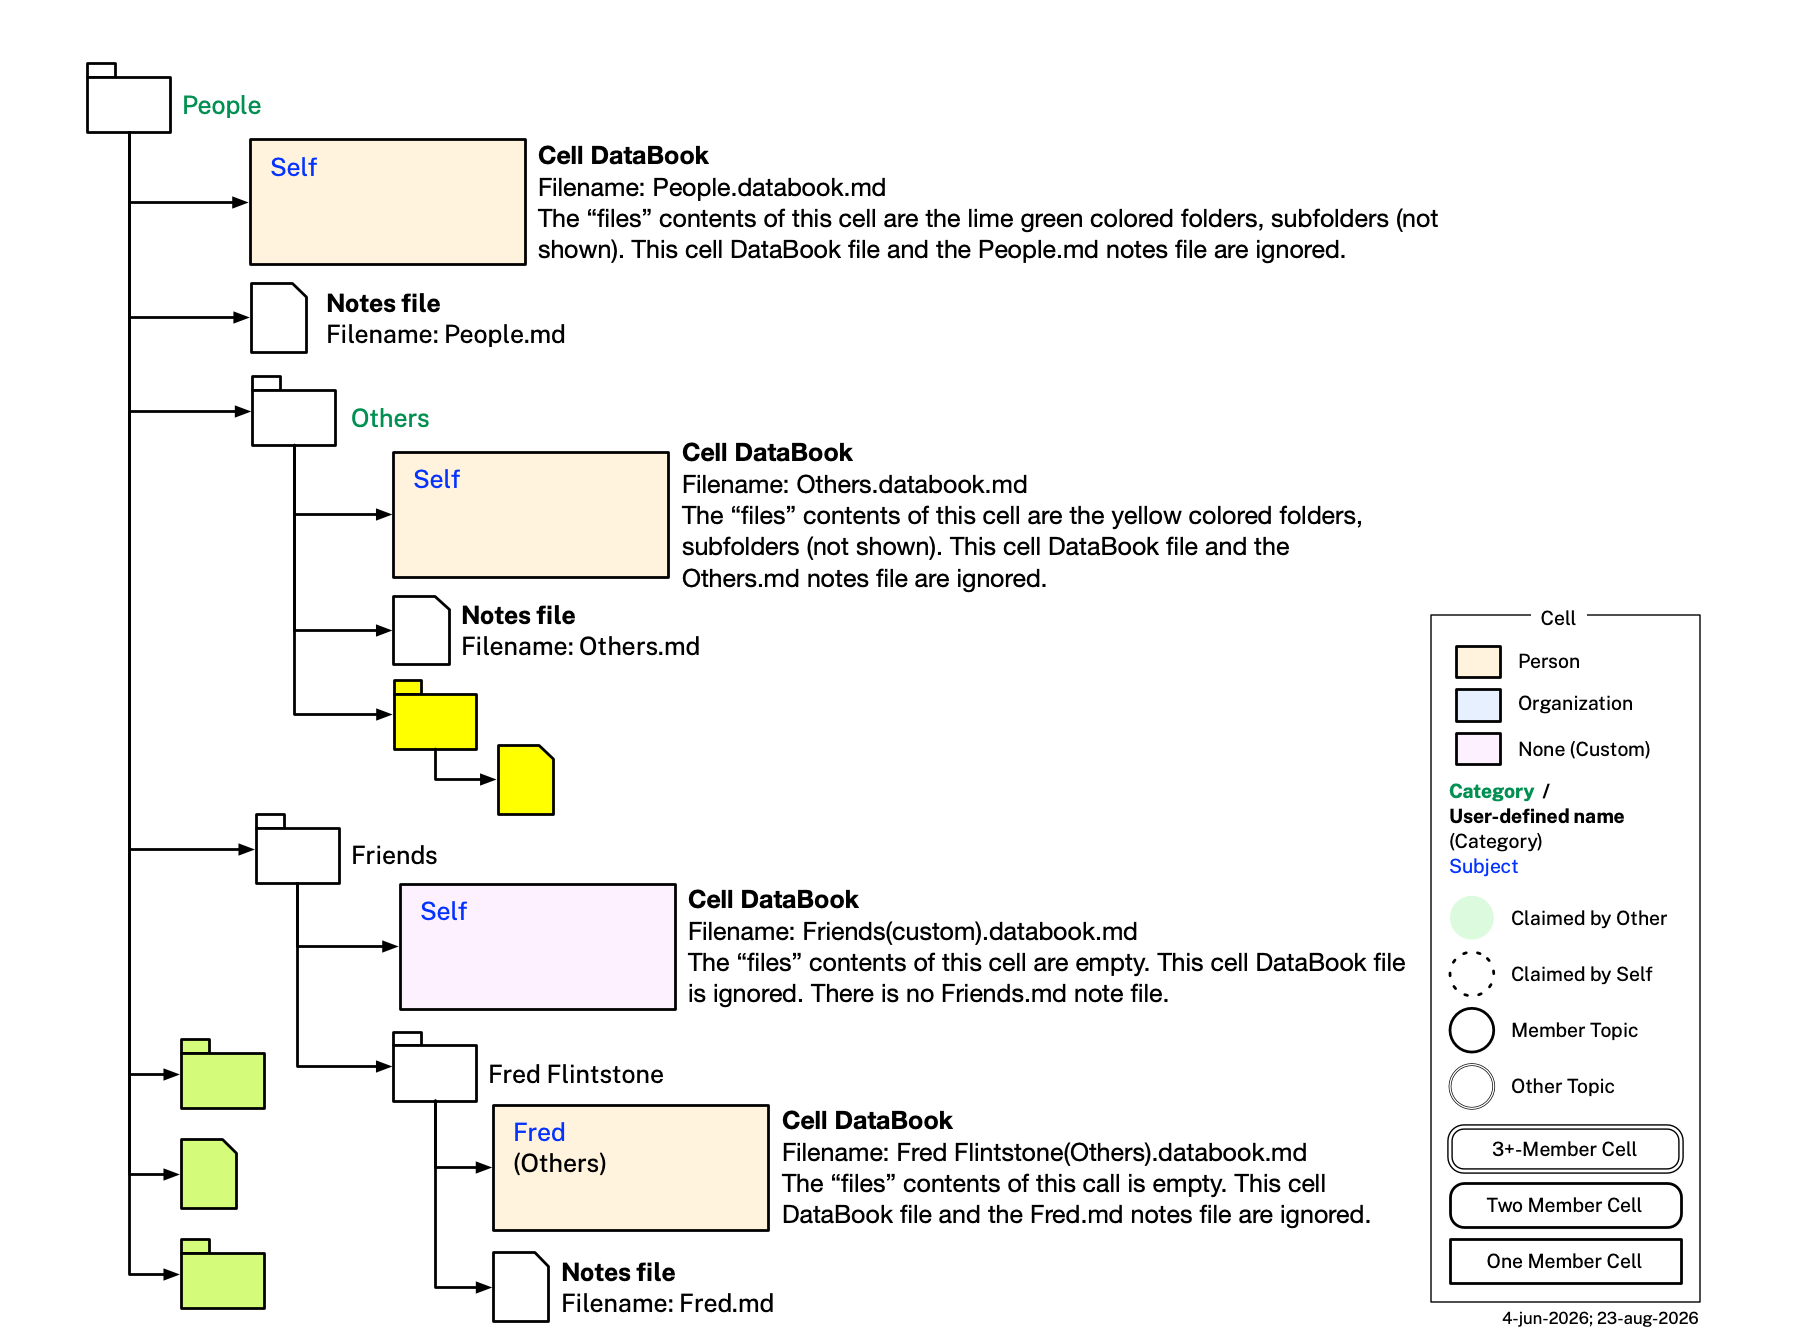
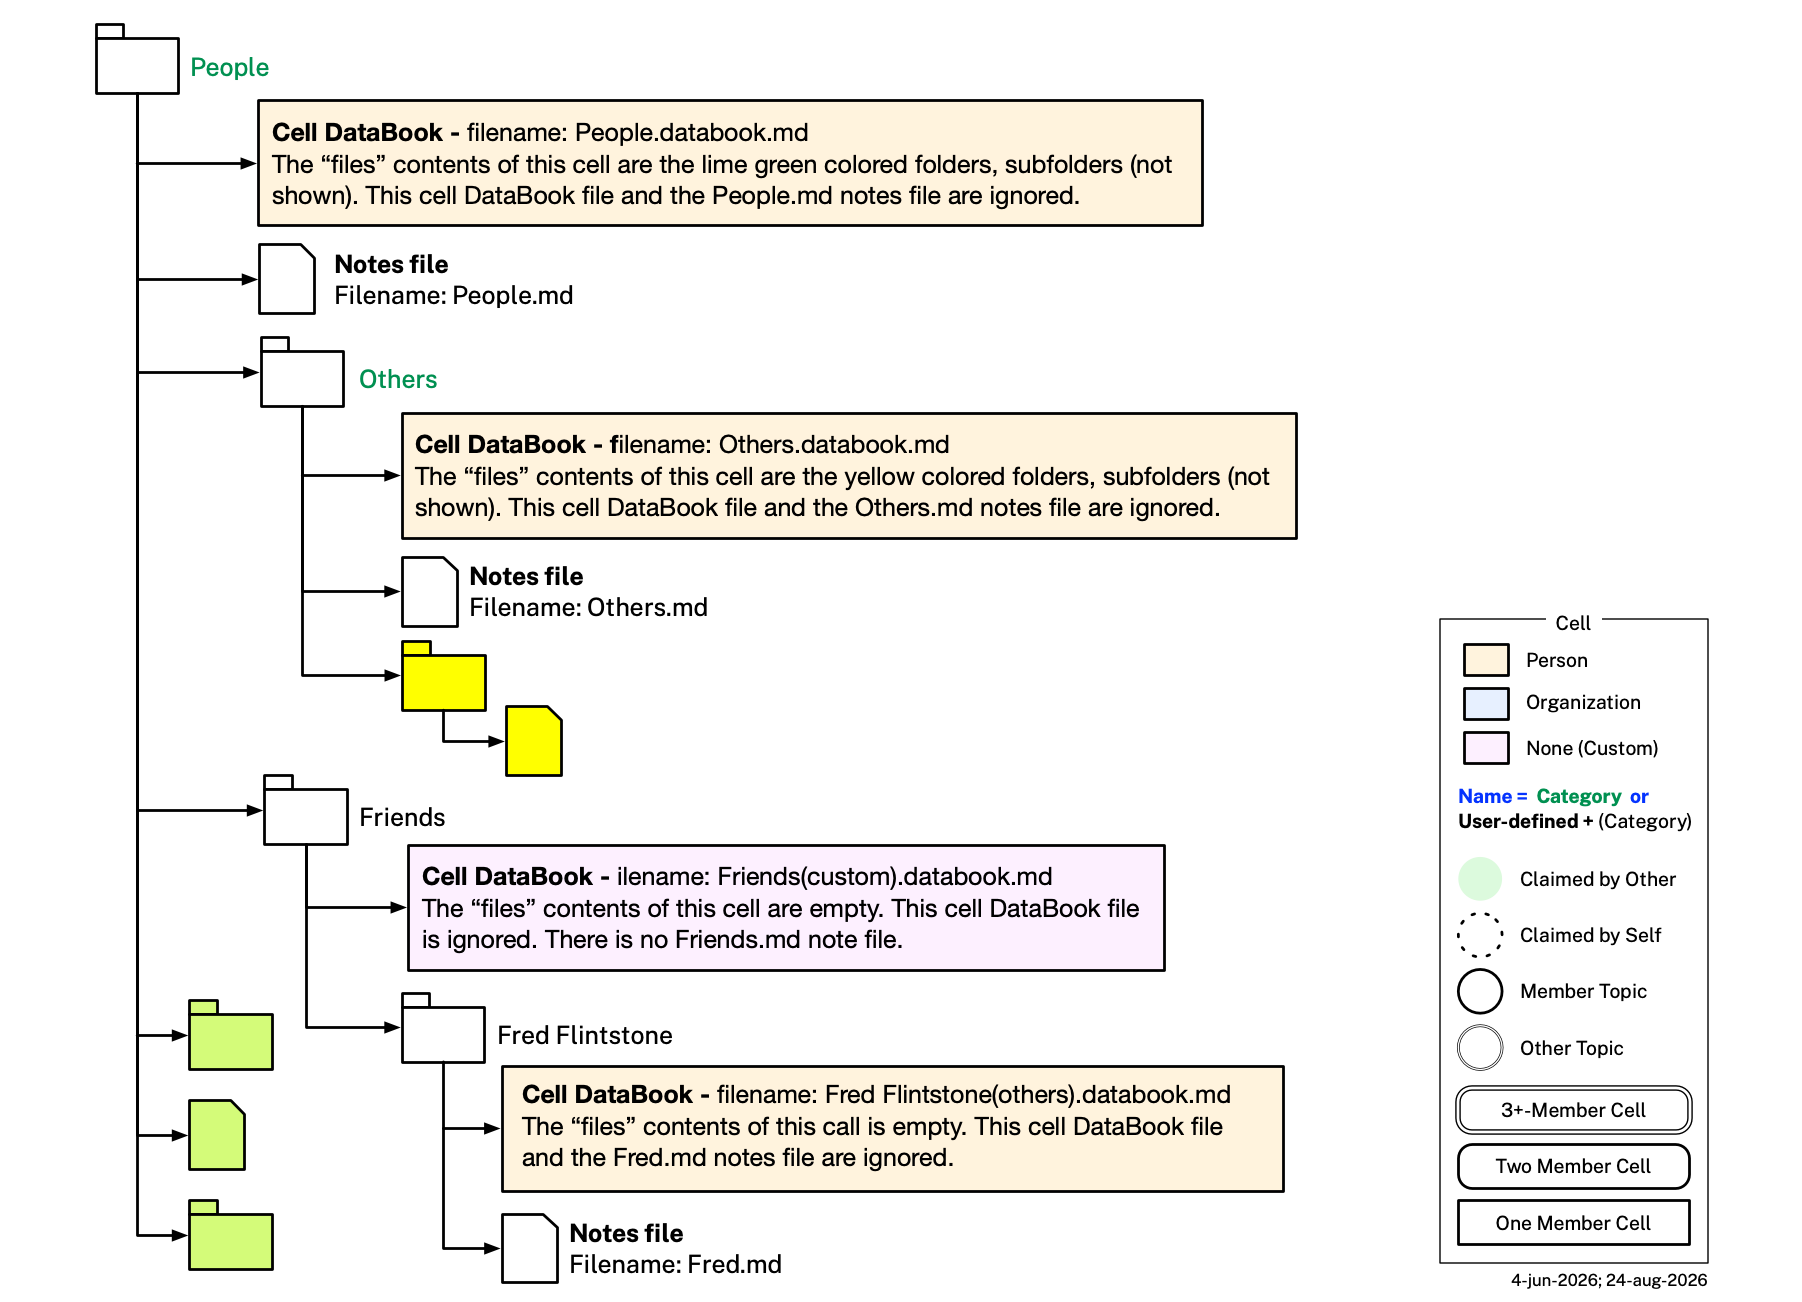
Finish diagram redraws for the removed cell:subject/Subject annotation
Verified: people.png no longer shows blue Subject text on the Bob
Johnson/Fred Flintstone boxes; cell.png drops the removed cell:subject
arrow and now shows otherTopics as 0..1 (was 0..N); folder-mapping.png
drops the blue Subject text/legend entry and matches the restructured
Cell legend used elsewhere. Remove the now-resolved staleness flags
from CLAUDE.md's Checks 10/12/20.

Changed region(s): [[0.0311, 0.0, 0.965, 1.0]]

diff --git a/CLAUDE.md b/CLAUDE.md
@@ -305,7 +305,7 @@ If a malformed id is found, fix it to match the pattern. If a duplicate `<NN>` i
 
 Note: this check's `^id:\s*(\S+)` regex is anchored at true line-start with no leading whitespace, so it only ever matches a file's own top-level `id:` line — a nested, indented `mia.topics[].id` value never matches this anchor and is intentionally out of scope here (a topic's `id` is not expected to relate to its owning cell file's name at all; see Check 2 for that). This imposes a requirement on any script that writes `mia.topics`: never emit an unindented `id:` at column 0.
 
-**Check 10 — Example cell diagrams are authoritative**: The 11 cell diagrams in `example/images/` are the authoritative source of truth for the example cell tree. When any discrepancy is found between a diagram and the DataBook files, the diagram wins — update the DataBooks to match, not the other way around. Each diagram box corresponds to a cell in `example/Cells/` (a folder holding its one `cell-databook` directly inside it, box label = the cell's own folder name, mirrored in its cell-databook's `title:`). **`people.png` is currently stale and needs manual redraw**: its "Bob Johnson" and "Fred Flintstone" boxes still show blue Subject text ("Bob, Self"/"Fred, Self") left over from before that convention was retired (see Check 10g) — every other diagram in `example/images/` has already dropped it. After any change to `example/Cells/` DataBooks or to the 11 diagrams, verify all of the following:
+**Check 10 — Example cell diagrams are authoritative**: The 11 cell diagrams in `example/images/` are the authoritative source of truth for the example cell tree. When any discrepancy is found between a diagram and the DataBook files, the diagram wins — update the DataBooks to match, not the other way around. Each diagram box corresponds to a cell in `example/Cells/` (a folder holding its one `cell-databook` directly inside it, box label = the cell's own folder name, mirrored in its cell-databook's `title:`). After any change to `example/Cells/` DataBooks or to the 11 diagrams, verify all of the following:
 
 - **10a — Every cell box has a cell DataBook**: Every cell box shown in any of the 11 diagrams must have a corresponding cell in `example/Cells/` whose cell-databook's `title:` matches the box label. If a box has no DataBook, create the cell (folder + cell DataBook).
 
@@ -402,7 +402,7 @@ for root in ['example/Cells']:
 
 If a `TOO MANY CELLS` issue is found, move the extra file(s) out to their own new folder — a folder may hold only one cell-databook, so a second cell belongs in its own new folder, not alongside the first. An empty/placeholder folder is not necessarily an error — flag it to the user rather than deleting it, since it may be a deliberate placeholder for content not yet added. Cell-databook files routinely carry substantial body content (one `### Topic NN` section per embedded topic) — this is expected and not itself a violation of this check, which only validates folder nesting, not file size or content.
 
-**Check 12 — `cell.ttl` matches `images/cell-ontology/cell.png`**: `Cell` shows only `origin` (to a `cat:Category` box, drawn **0..1**, matching `cell:origin`'s actual cardinality). `cell:origin`'s range is the classificatory `cat:Category` — there is no tree-position class for it to be confused with, so it does not conflict with `cell:Cell`'s "no link to a tree position" design (see `cell:Cell`'s own `rdfs:comment`) — it records what kind of thing a cell is, not where it lives, and needs no `owl:imports category.ttl` (referenced by name only, mirroring `cell:creator`'s identical pattern). The diagram shows a `chat` arrow off `Cell` (to a box literally labeled "TBD") with no counterpart in `cell.ttl` — this is a deliberate, accepted exception to 12a/12b below: README.md already describes `chat`'s intended semantics ("optional path to chat stream") as a planned property, but `cell.ttl` itself has no `cell:chat` declaration yet. No `note` arrow appears off `Cell` — `cell:note` doesn't exist. The diagram correctly shows the `memberTopics`/`otherTopics` split and the `t:SCTopicGraph` label, both drawn as two separate arrows off `ACell` to a `t:SCTopicGraph` box. `Cell` (abstract, blue) carries `origin` only (plus the still-open `chat` arrow above). `Cell` splits into two orthogonal facets: `TCell` (abstract, blue, the template facet) carries `templateShape` (to a `sh:NodeShape` box); `ACell` (abstract, blue, the actual/instantiated facet) carries `memberTopics` (to a `t:SCTopicGraph` box, cardinality varying by member count), `otherTopics` (to a `t:SCTopicGraph` box, 0..1 uniformly), `shape` (to a `sh:NodeShape` box), `creator` (to a union of `p:Person`/`o:Organization`, required), and `memberCount` (to `OneMember`/`TwoMember`/`ThreePlusMember` 1..1). There is no `subject` arrow off `ACell` — `cell:subject` was removed (a cell's subject is now derived from `memberTopics`/`otherTopics` rather than stored); **`cell.png` is currently stale and needs manual redraw**: it still draws a `subject → xsd:anyURI 1..2` arrow that no longer corresponds to anything in `cell.ttl`, and still shows `otherTopics → t:SCTopicGraph 0..N` rather than the current `0..1`. The member-composition hierarchy — `OneMember` and `MultiMember` (abstract) → `TwoMember`/`ThreePlusMember` — hangs off `ACell`, not `Cell` directly; `TCell` has no subclasses of its own, since a template cell individual is instead multi-typed with both `TCell` and its `ACell`-lineage class (e.g. `OneMember`) — see `cell-templates.ttl`. `MultiMember` shows no arrows of its own, matching `cell:memberTopics`/`cell:otherTopics`'s domain being the broader `cell:ACell` rather than `cell:MultiMember`. No arrow points from `Cell`, `TCell`, or `ACell` to any tree-position box at all — `cell:origin`'s arrow points to `cat:Category` instead, the classificatory hierarchy. This diagram is the ontology-level (not example-tree) picture of `cell:Cell`'s structure — the member-composition hierarchy and its content-linking properties. Unlike Check 10 (example diagrams, where the diagram always wins), this check does not presume which side is authoritative when the two disagree — surface the discrepancy and ask:
+**Check 12 — `cell.ttl` matches `images/cell-ontology/cell.png`**: `Cell` shows only `origin` (to a `cat:Category` box, drawn **0..1**, matching `cell:origin`'s actual cardinality). `cell:origin`'s range is the classificatory `cat:Category` — there is no tree-position class for it to be confused with, so it does not conflict with `cell:Cell`'s "no link to a tree position" design (see `cell:Cell`'s own `rdfs:comment`) — it records what kind of thing a cell is, not where it lives, and needs no `owl:imports category.ttl` (referenced by name only, mirroring `cell:creator`'s identical pattern). The diagram shows a `chat` arrow off `Cell` (to a box literally labeled "TBD") with no counterpart in `cell.ttl` — this is a deliberate, accepted exception to 12a/12b below: README.md already describes `chat`'s intended semantics ("optional path to chat stream") as a planned property, but `cell.ttl` itself has no `cell:chat` declaration yet. No `note` arrow appears off `Cell` — `cell:note` doesn't exist. The diagram correctly shows the `memberTopics`/`otherTopics` split and the `t:SCTopicGraph` label, both drawn as two separate arrows off `ACell` to a `t:SCTopicGraph` box. `Cell` (abstract, blue) carries `origin` only (plus the still-open `chat` arrow above). `Cell` splits into two orthogonal facets: `TCell` (abstract, blue, the template facet) carries `templateShape` (to a `sh:NodeShape` box); `ACell` (abstract, blue, the actual/instantiated facet) carries `memberTopics` (to a `t:SCTopicGraph` box, cardinality varying by member count), `otherTopics` (to a `t:SCTopicGraph` box, 0..1 uniformly), `shape` (to a `sh:NodeShape` box), `creator` (to a union of `p:Person`/`o:Organization`, required), and `memberCount` (to `OneMember`/`TwoMember`/`ThreePlusMember` 1..1). There is no `subject` arrow off `ACell` — `cell:subject` was removed (a cell's subject is now derived from `memberTopics`/`otherTopics` rather than stored). The member-composition hierarchy — `OneMember` and `MultiMember` (abstract) → `TwoMember`/`ThreePlusMember` — hangs off `ACell`, not `Cell` directly; `TCell` has no subclasses of its own, since a template cell individual is instead multi-typed with both `TCell` and its `ACell`-lineage class (e.g. `OneMember`) — see `cell-templates.ttl`. `MultiMember` shows no arrows of its own, matching `cell:memberTopics`/`cell:otherTopics`'s domain being the broader `cell:ACell` rather than `cell:MultiMember`. No arrow points from `Cell`, `TCell`, or `ACell` to any tree-position box at all — `cell:origin`'s arrow points to `cat:Category` instead, the classificatory hierarchy. This diagram is the ontology-level (not example-tree) picture of `cell:Cell`'s structure — the member-composition hierarchy and its content-linking properties. Unlike Check 10 (example diagrams, where the diagram always wins), this check does not presume which side is authoritative when the two disagree — surface the discrepancy and ask:
 
 - **12a** — every property arrow shown off `Cell` (`origin`) has a corresponding `cell:` property in `cell.ttl` with `rdfs:domain cell:Cell` (the diagram's `chat` arrow is the one accepted exception — see above: it's a planned property, not yet added to `cell.ttl`). Every arrow off `TCell` (`templateShape`) has `rdfs:domain cell:TCell`; every arrow off `ACell` (`shape`, `creator`, `memberCount`, `memberTopics`, `otherTopics`) has `rdfs:domain cell:ACell`. No `subject` arrow should appear off `ACell` at all — `cell:subject` doesn't exist (see Check 12's own note above). `MultiMember` should show no arrows of its own — it carries no property, since `cell:memberTopics`/`cell:otherTopics`'s domain is the broader `cell:ACell`. Each arrow's target type in the diagram must match the property's `rdfs:range` — `memberTopics`'s and `otherTopics`'s are both `topic:SCTopicGraph` (`otherTopics` drawn 0..1, not 0..N), `creator`'s is the union of `p:Person`/`o:Organization`, `memberCount`'s is `cell:ACell` itself (value is the concrete subclass, not `xsd:string`), `origin`'s is `cat:Category` itself (value is the concrete leaf subclass, e.g. `cat:Others`, not `xsd:string` — the same class-value-punning pattern as `memberCount`), `templateShape`'s and `shape`'s are both `sh:NodeShape` — two separate arrows from two different boxes (`TCell` vs `ACell`) to what may be drawn as the same target, since they're two distinct properties, not one property under two names. No `note` arrow should appear off `Cell` at all.
 - **12b** — every `cell:` property defined in `cell.ttl` appears as an arrow in the diagram, under the box matching its domain — `Cell`, `TCell`, or `ACell` (catches new properties added to the ttl but never drawn, or drawn under the wrong box).
@@ -610,7 +610,7 @@ print('OK — title: matches its own folder name for every cell-databook.' if er
 
 If a mismatch is found, the folder name is authoritative — update `title:` to match it exactly, even when the existing `title:` reads more naturally (e.g. an honorific like `Dr. Jane Starostina` vs. folder `Jane Starostina`, or an expansion like `AT&T` vs. folder `ATT`): `title:` is not an independent display-name override, so it cannot legitimately diverge from the folder's own name — the mismatch is drift, not a deliberate choice, since the folder name is also what Check 10a's diagram-box match keys off. If the *folder's* name is what's actually wrong (e.g. it should have been named `AT&T` all along), rename the folder itself instead, then update the cell-databook's filename and `title:` together to match the new folder name.
 
-**Check 20 — `images/folder-mapping.png` folder colors match real data**: This diagram has no dedicated check of its own until now (unlike `cat-cell-topic.png`'s Check 15). **This diagram is currently stale and needs manual redraw**: it still shows blue Subject text inside boxes (e.g. "Self", "Fred") and a "Subject" legend entry, both retired from every other diagram (see Check 10g/Check 15) — its fill/text colors below are otherwise still correct. Every cell shown in this diagram (and in `cat-cell-topic.png`, and in all 11 example diagrams — Check 10i) carries exactly two independent, mechanically-checkable colors: a **fill** color, applied to its own folder icon — the cell DataBook's own content box is always plain white and never carries fill — (tan if the cell's `mia.origin` resolves to `cat:Person`, light blue if `cat:Organization`, purple/Custom if the cell has no origin at all) and a folder-**name-text** color (green/"Predefined" if the cell's `title:` equals the origin class's own `rdfs:label` verbatim, plain black/"User-defined" otherwise — and always black for a no-origin/Custom cell, since there's no label to match). A cell with no origin is only legal if its cell-databook's filename carries the literal `(custom)` disambiguator (see the Cell DataBook Filename Convention) — the two facts (no `mia.origin` and a `(custom)` filename) must always agree; either alone without the other is an error. This is a visual check (no automated pixel/OCR comparison), but the script below computes the correct fill and text color for every real cell, for direct cross-reference against whichever diagram box is being checked — e.g. this diagram's "Fred Flintstone" box (origin `cat:Others`, folder name "Fred Flintstone") should be tan fill + black text; "People" (origin `cat:People`, folder name "People") should be tan fill + green text; the "Friends" box (no origin, filename `Friends(custom).databook.md`) should be purple fill + black text. Run:
+**Check 20 — `images/folder-mapping.png` folder colors match real data**: This diagram has no dedicated check of its own until now (unlike `cat-cell-topic.png`'s Check 15). Every cell shown in this diagram (and in `cat-cell-topic.png`, and in all 11 example diagrams — Check 10i) carries exactly two independent, mechanically-checkable colors: a **fill** color, applied to its own folder icon — the cell DataBook's own content box is always plain white and never carries fill — (tan if the cell's `mia.origin` resolves to `cat:Person`, light blue if `cat:Organization`, purple/Custom if the cell has no origin at all) and a folder-**name-text** color (green/"Predefined" if the cell's `title:` equals the origin class's own `rdfs:label` verbatim, plain black/"User-defined" otherwise — and always black for a no-origin/Custom cell, since there's no label to match). A cell with no origin is only legal if its cell-databook's filename carries the literal `(custom)` disambiguator (see the Cell DataBook Filename Convention) — the two facts (no `mia.origin` and a `(custom)` filename) must always agree; either alone without the other is an error. This is a visual check (no automated pixel/OCR comparison), but the script below computes the correct fill and text color for every real cell, for direct cross-reference against whichever diagram box is being checked — e.g. this diagram's "Fred Flintstone" box (origin `cat:Others`, folder name "Fred Flintstone") should be tan fill + black text; "People" (origin `cat:People`, folder name "People") should be tan fill + green text; the "Friends" box (no origin, filename `Friends(custom).databook.md`) should be purple fill + black text. Run:
 
 ```python
 import glob, re, yaml
